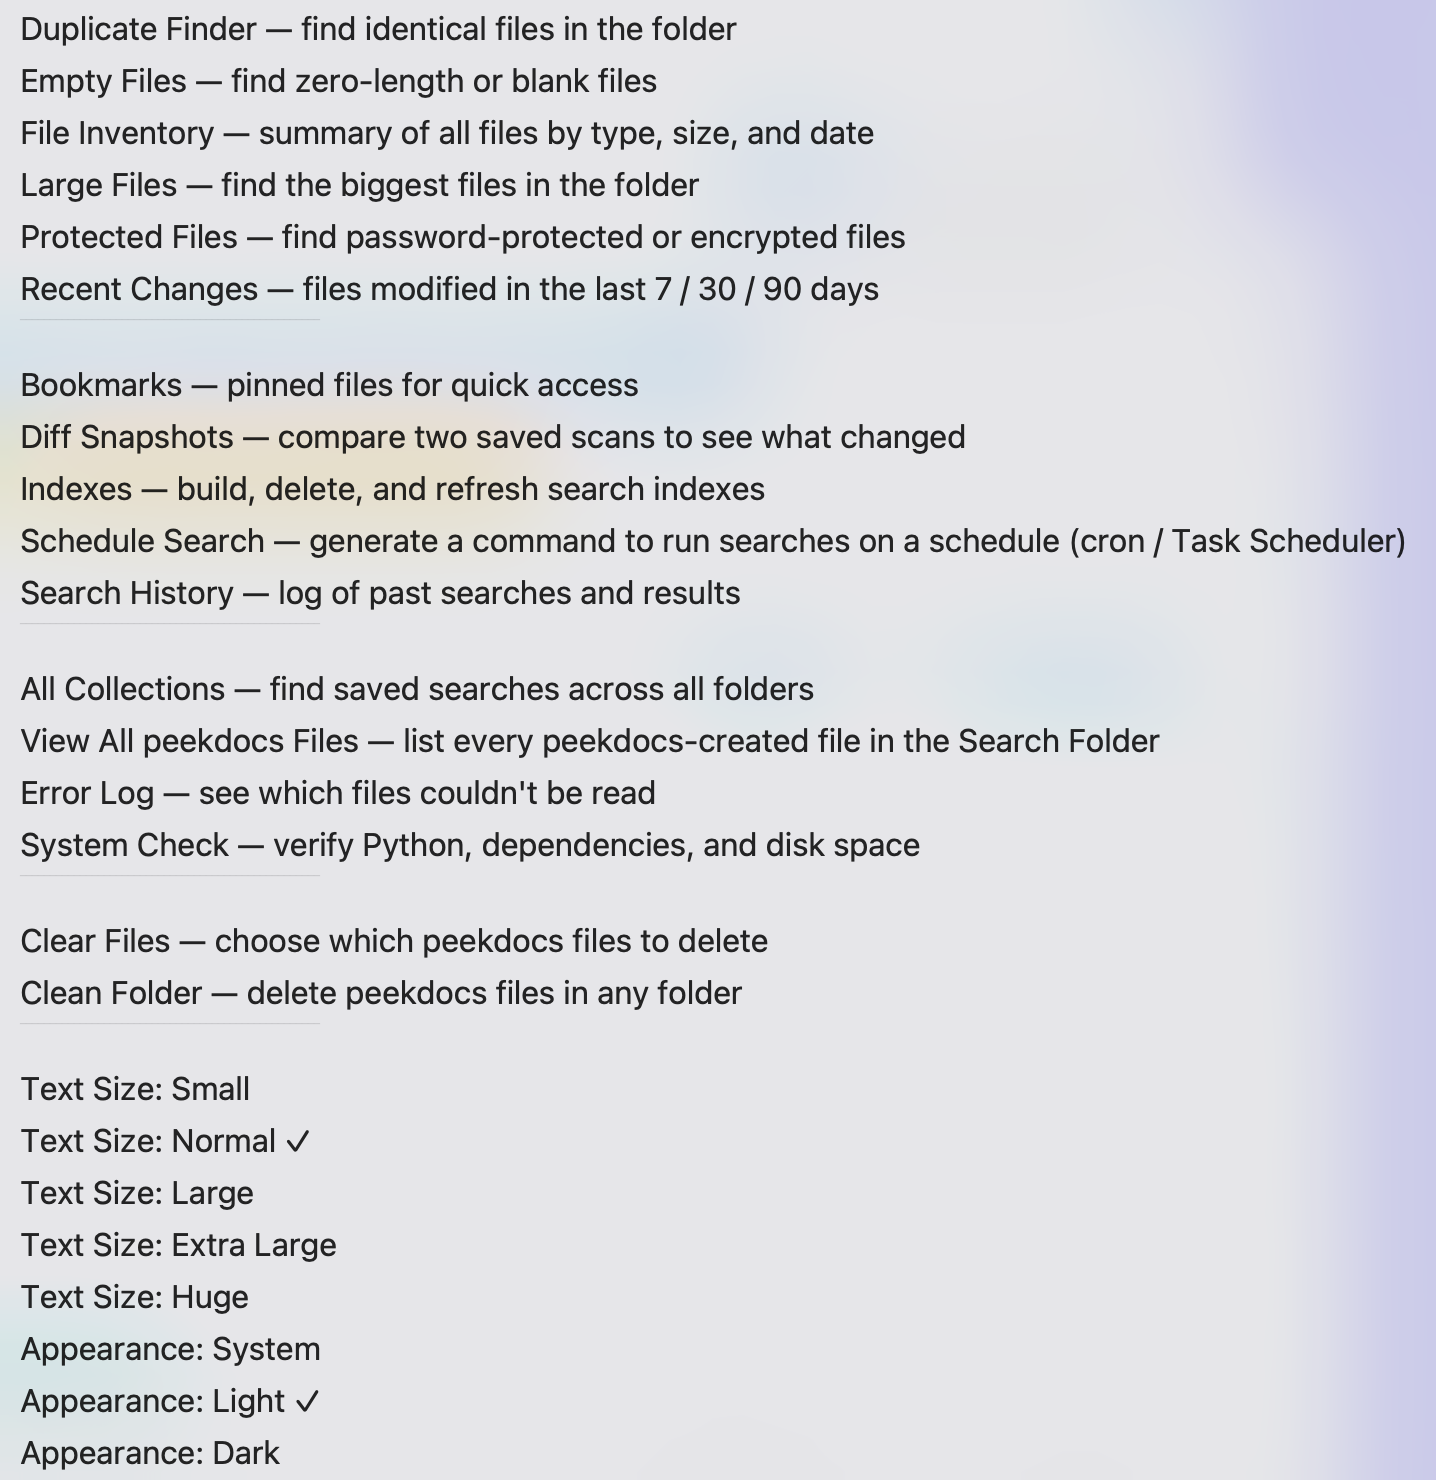
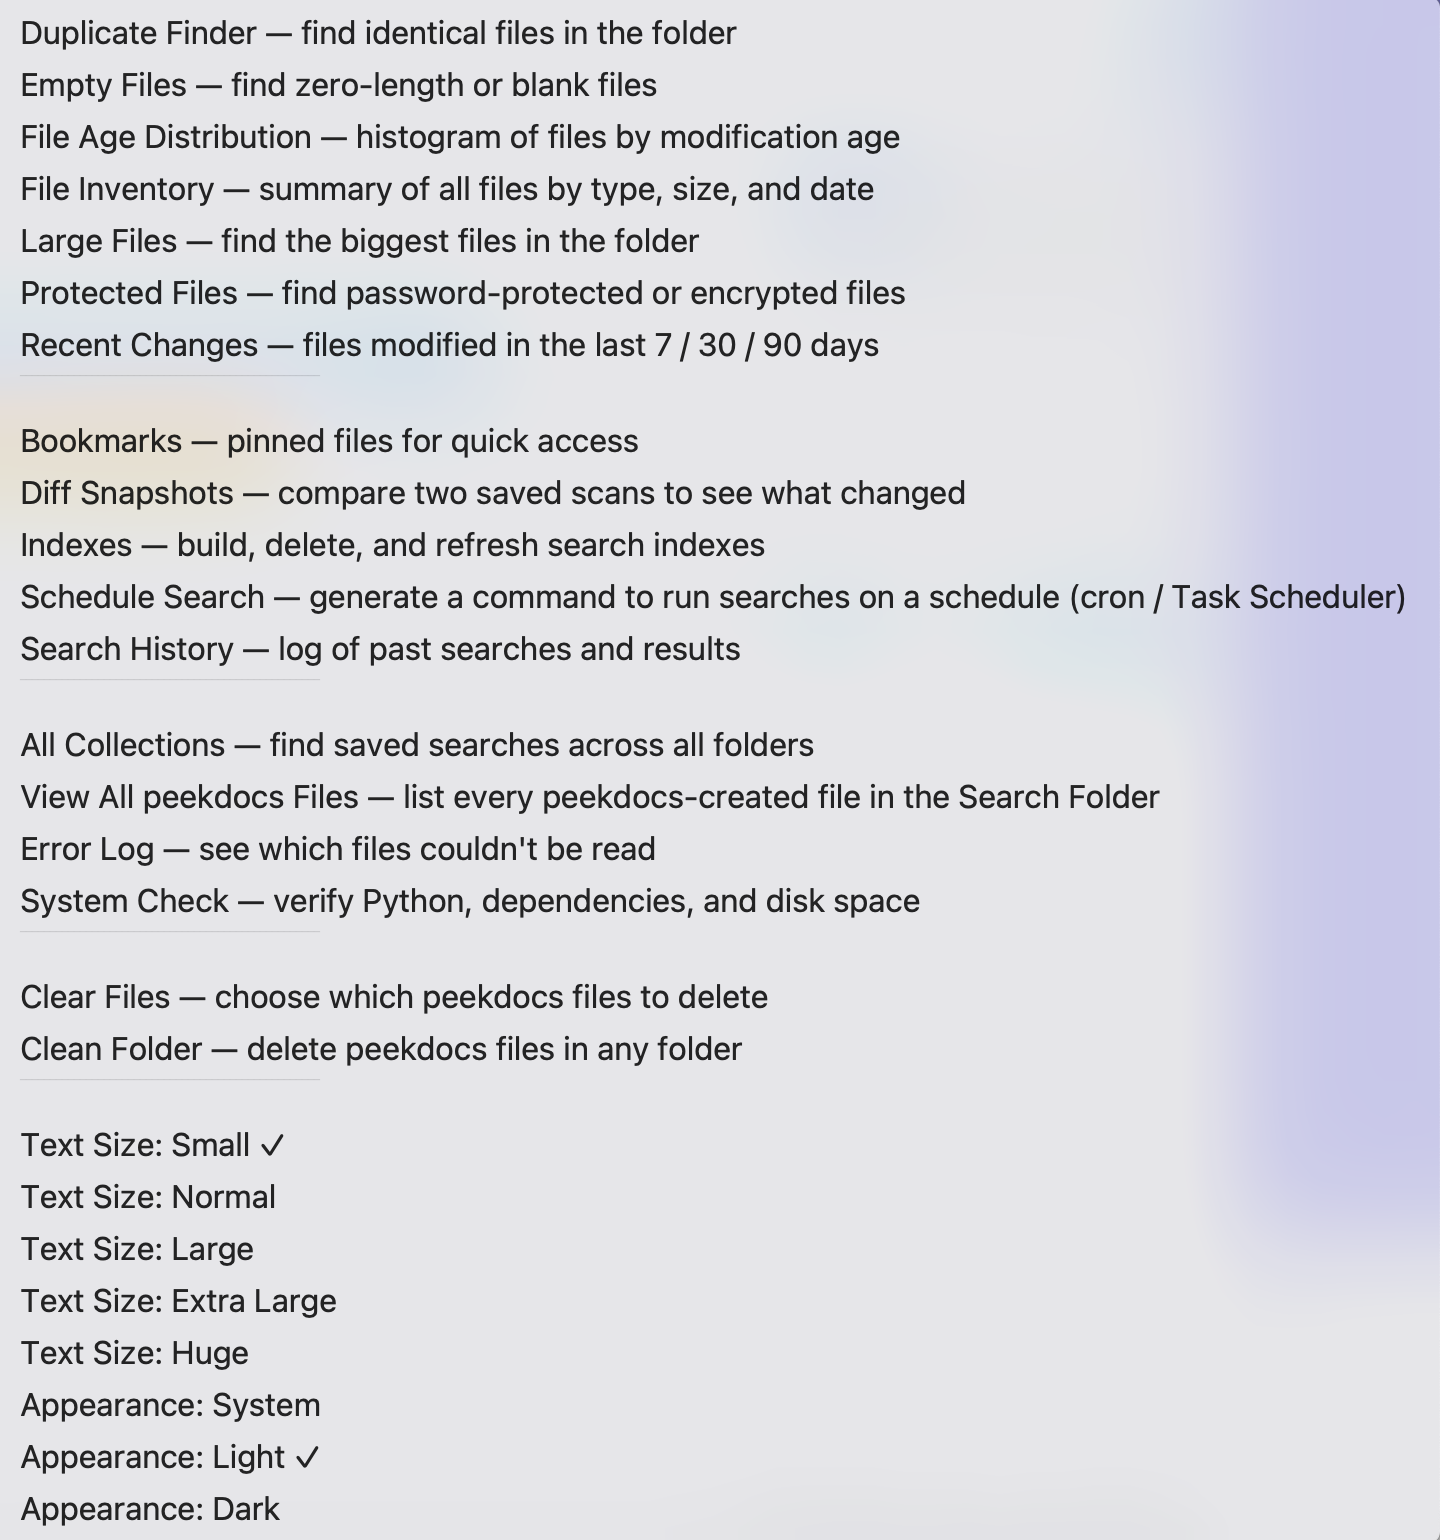
Docs: surface File Age Distribution + refresh Tools menu screenshot
Updated Tools menu screenshot now lists File Age Distribution
alphabetically between Empty Files and File Inventory. New
screenshot captures the tool in action — 488 files all in the
0-6 months bucket with the histogram + per-bucket file list.

Four doc updates around the new feature:

1. README Feature Highlights bullet: added "File Age Distribution"
   to the file-analysis list and resorted alphabetically.
2. README Features long-form bullet: added the new tool with
   the use-case framing the user asked for ("useful for archives,
   records management, and personal document collections").
3. README Tools-menu detail bullets: added a per-tool entry with
   the histogram description and the screenshot inline. Notes
   that the chart surfaces stale folders at a glance and shows
   what fraction of a collection is recent activity vs. long-
   untouched material.
4. USER_GUIDE Tools menu reference table: added a row with the
   full bucket definitions and the same archives / records-
   management / personal-collections use-case framing.

Changed region(s): [[0.0, 0.0, 0.9805, 0.5905], [0.0, 0.6216, 0.5515, 0.9946], [0.9499, 0.8392, 1.0, 1.0]]

diff --git a/README.md b/README.md
@@ -22,7 +22,7 @@ peekdocs extracts and searches text from PDFs, Word documents, Excel spreadsheet
 - **Search Wizard** — 35 pre-built search types, no syntax to memorize
 - **Regex Search** — run up to 10 named regex patterns per collection, with unlimited saved collections. Switch between collections for different tasks (e.g., "code patterns", "log analysis", "invoice extraction") — or run any collection from Python via `run_regex_collection()`
 - **Search Suites** — group saved searches and run them all with one click — or from Python via `run_suite()`
-- **File analysis built in** — Duplicate Finder, Empty Files, Large Files, Recent Changes, Protected Files, and File Inventory. Plus Bookmarks and Search History for recurring workflows.
+- **File analysis built in** — Duplicate Finder, Empty Files, File Age Distribution, File Inventory, Large Files, Protected Files, and Recent Changes. Plus Bookmarks and Search History for recurring workflows.
 - **Scriptable** — Python API, JSON output, meaningful exit codes, Diff Snapshots, Schedule Search, and a stable CLI surface for cron jobs, CI pipelines, and automation
 - **Cross-platform** — same features on macOS, Windows, and Linux
 
@@ -433,7 +433,7 @@ The combination of **local + privacy-first + grep-like power + OCR + regex workf
 - **Save and reload searches** — save a configured search by name and reload it later with one click. Each folder has its own collection of saved searches.
 - **Search Suites** — group multiple saved searches into a named suite and run them all at once with a single click. Each search runs independently with its own settings, and results are organized by search in a single combined highlighted report. Choose your output formats (TXT and DOCX are always generated; HTML, CSV, JSON, and PDF are optional — select them in the Search Suites popup). Create suites for recurring tasks like pre-publication checks, quarterly audits, onboarding reviews, or any workflow that involves the same set of searches. Suites are stored per folder, but the CLI finds them by name from anywhere: `peekdocs --suite "My Suite"` auto-locates the folder it was saved in, and `peekdocs --list-suites` shows every suite and where it lives. Available from the GUI (Tools → Search Suites) and CLI.
 - **Search index** — optional SQLite FTS5 index for faster repeated searches. Build once, search in sub-second time. Auto-refresh keeps the index current when files change.
-- **Built-in file analysis tools** — the Tools menu includes File Inventory (summary by type/size/date), Duplicate Finder (identical files by content hash), Large Files, Empty Files, Recent Changes, Protected Files (password-encrypted detection), Search History (automatic log of past searches), Bookmarks (pin files for quick access), and App Files (lists every file peekdocs has created in the folder — results, reports, indexes, saved searches — so you always know what's yours and what's peekdocs').
+- **Built-in file analysis tools** — the Tools menu includes File Inventory (summary by type/size/date), File Age Distribution (histogram of files by modification age — useful for archives, records management, and personal document collections), Duplicate Finder (identical files by content hash), Large Files, Empty Files, Recent Changes, Protected Files (password-encrypted detection), Search History (automatic log of past searches), Bookmarks (pin files for quick access), and App Files (lists every file peekdocs has created in the folder — results, reports, indexes, saved searches — so you always know what's yours and what's peekdocs').
 - **Offline and private** — your documents never leave your computer.
   - peekdocs never uploads, transmits, alters, moves, or deletes your files
   - No cloud, no accounts, no subscriptions, no internet connection required
@@ -495,6 +495,9 @@ All three share the same engine, flags, and 100+ file-type support. The matching
   - **Duplicate Finder** — finds identical files by content (not just name), shows how much space is wasted by extra copies
   - **Large Files** — shows the 50 biggest files so you can reclaim disk space
   - **Empty Files** — finds zero-byte files: failed downloads, placeholders, junk
+  - **File Age Distribution** — histogram of how recently files were modified, in six buckets from 0–6 months out to 10+ years. Useful for archives, records management, and personal document collections — surfaces stale folders at a glance and shows what fraction of a collection is recent activity vs. long-untouched material
+
+    ![File Age Distribution popup](docs/images/screenshot-file-age-distribution.png)
   - **Recent Changes** — which files were modified in the last 7, 30, or 90 days
   - **Protected Files** — detects password-protected PDFs, Word/Excel/PowerPoint, ZIP/7z/RAR archives that peekdocs can't search
   - **Indexes** — build, refresh, or delete the optional search index that makes repeated searches dramatically faster

diff --git a/docs/USER_GUIDE.md b/docs/USER_GUIDE.md
@@ -515,6 +515,7 @@ The **Tools** button (top-right of the Search tab) opens a menu of built-in util
 | **Duplicate Finder** | Finds groups of identical files by comparing content (MD5 hash), not just filenames. Two files with different names but identical content are flagged. Shows how many extra copies exist and how much disk space they waste. Click **Save Report** to export. |
 | **Large Files** | Lists the 50 largest files in the folder with their sizes. Useful for finding disk hogs — large files you may have forgotten about. |
 | **Empty Files** | Finds zero-byte files. These are completely empty — often failed downloads, placeholders, or leftover junk that can be safely deleted. |
+| **File Age Distribution** | Groups every file by modification age into six buckets — 0–6 months, 6 months–1 year, 1–3 years, 3–5 years, 5–10 years, 10+ years — and shows an ASCII histogram plus per-bucket file lists with date, size, and relative path. Useful for archives, records management, and personal document collections: surfaces stale folders that haven't been touched in years, shows what fraction of a collection is recent activity vs. long-untouched material, and helps with retention reviews. Click **Save Report** to export as a plain-text file. |
 | **Recent Changes** | Shows files modified in the last 7, 30, and 90 days, grouped by time period. Each file is shown with its modification date and size. Useful for seeing what changed recently in a folder you haven't visited in a while. |
 | **Protected Files** | Detects password-protected and encrypted files: PDFs, Word/Excel/PowerPoint (both modern and legacy formats), ODF documents, ZIP/7z/RAR archives. These files cannot be searched by peekdocs. The report tells you exactly which files are locked so you can decide whether to unprotect them. Click **Save Report** to export. |
 | **Search History** | Every search you run is automatically logged with the date, search terms, number of matches, number of files searched, and elapsed time. Open Search History to review past searches — most recent first. Click **Clear History** to delete the log. History is stored in `~/.peekdocs_history.json` and persists across sessions. |